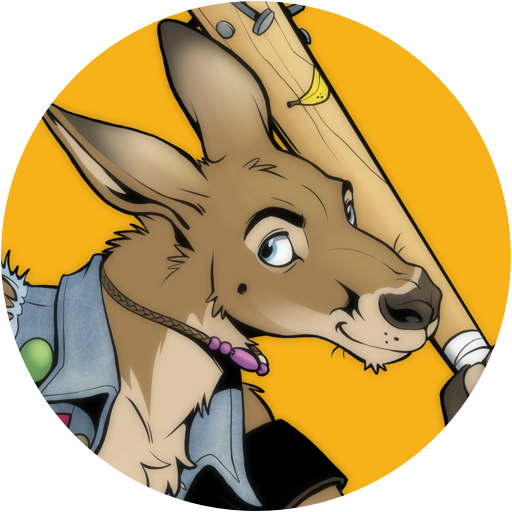
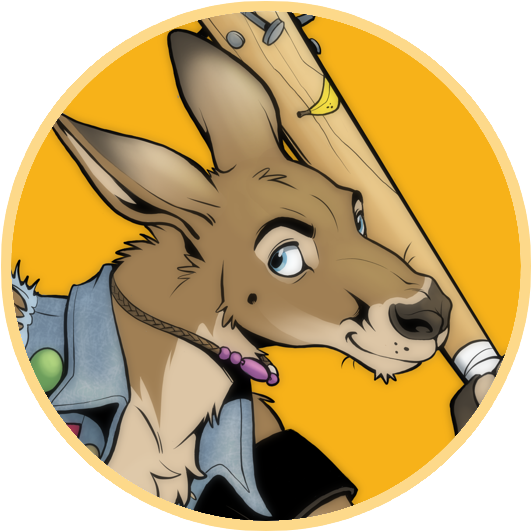
Added an about the author photo and tweaked the header

Changed region(s): [[0.0, 0.0, 1.0, 1.0], [0.5938, 0.8438, 0.625, 0.875], [0.5938, 0.375, 0.625, 0.4062]]

diff --git a/static/styles.css b/static/styles.css
@@ -77,7 +77,6 @@ header {
     display: block;
     width: min(100%, 18rem);
     justify-self: center;
-    filter: drop-shadow(1rem 1rem 0.4rem rgb(56 45 37 / 38%));
 }
 
 #status {
@@ -179,13 +178,11 @@ footer ul {
 
 #nav-bar #home_link {
     margin-right: auto;
-    transform: translateY(-7rem);
 }
 
 #nav-bar #home_link > a {
-    border-color: var(--ink);
-    color: var(--cream);
-    background: var(--ink);
+    border-color: transparent;
+    background: transparent;
 }
 
 #nav-bar #home_link > a img {
@@ -195,7 +192,8 @@ footer ul {
 }
 
 #nav-bar #home_link > a:hover {
-    background: var(--blue-dark);
+    background: transparent;
+    box-shadow: none;
 }
 
 #socials {
@@ -353,11 +351,31 @@ main > form {
 }
 
 #ai,
+#about,
 #privacy,
 #sitemap {
     box-sizing: content-box;
     max-width: 75ch;
     margin-inline: auto;
+}
+
+#ai,
+#about {
+    overflow: auto;
+}
+
+#ai > img,
+#about > img {
+    float: left;
+    width: min(45%, 218px);
+    height: auto;
+    margin: 0 1.25rem 1rem 0;
+}
+
+#about > img {
+    border: 0;
+    border-radius: 0;
+    box-shadow: none;
 }
 
 h1,
